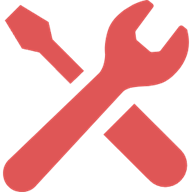
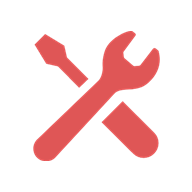
アイコンに余白を追加し、印刷時の複数選択項目を箇条書き表示に変更
- アイコン: 周囲に16%のパディングを追加
- 印刷: 1品目で複数仕様を選択した場合、各仕様を「・」付きの
  箇条書きで表示するよう変更(単一仕様の場合は従来通り1行表示)

Changed region(s): [[0.0, 0.0, 1.0, 1.0], [0.0312, 0.0312, 0.3438, 0.3438]]

diff --git a/index.html b/index.html
@@ -7,7 +7,7 @@
 <meta name="apple-mobile-web-app-status-bar-style" content="black-translucent">
 <meta name="apple-mobile-web-app-title" content="準備リスト">
 <meta name="theme-color" content="#1d4ed8">
-<title>工事準備リスト作成</title>
+<title>工事準備リスト</title>
 <link rel="manifest" href="manifest.json">
 <link rel="icon" type="image/png" sizes="32x32" href="favicon.png">
 <link rel="icon" type="image/png" sizes="192x192" href="icon-192.png">
@@ -18,7 +18,7 @@
 <body>
 
 <header>
-  <h1>🛠 工事準備リスト作成</h1>
+  <h1>🛠 工事準備リスト</h1>
   <div class="sub">品名を選択 → 仕様を選択 → 数量を入力</div>
 </header>
 
@@ -340,8 +340,9 @@ function buildSummary(){
     lines.forEach(r=>{
       const tr = document.createElement('tr');
       const specHtml = r.specs.map(sp=>`<div class="sp">${sp.label?sp.label+' ':''}×${sp.qty}</div>`).join('');
+      const multiClass = r.specs.length>1 ? ' multi' : '';
       tr.innerHTML = `<td class="chk">✔</td>
-        <td><div class="nm">${r.name}</div>${specHtml}</td>`;
+        <td class="${multiClass.trim()}"><div class="nm">${r.name}</div>${specHtml}</td>`;
       table.appendChild(tr);
     });
     wrap.appendChild(table);

diff --git a/styles.css b/styles.css
@@ -224,7 +224,9 @@ table.sum-table .sp{color:var(--gray-500); font-size:11px; margin-top:1px;}
   table.sum-table td{padding:1.5px 3px;}
   table.sum-table td.chk{width:12px; font-size:10px;}
   table.sum-table tr{break-inside:avoid; page-break-inside:avoid;}
-  table.sum-table td:last-child{display:flex; flex-wrap:wrap; align-items:baseline; column-gap:4px;}
+  table.sum-table td:last-child:not(.multi){display:flex; flex-wrap:wrap; align-items:baseline; column-gap:4px;}
   table.sum-table .nm{white-space:nowrap;}
   table.sum-table .sp{font-size:9.5px; margin-top:0; white-space:nowrap;}
+  table.sum-table td.multi .sp{display:block; margin-top:1px; padding-left:11px; position:relative; white-space:normal;}
+  table.sum-table td.multi .sp::before{content:"・"; position:absolute; left:0;}
 }
